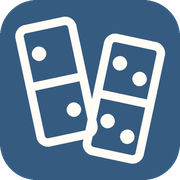
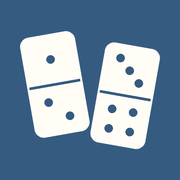
Publish Domino 1.6.2

diff --git a/index.html b/index.html
@@ -1,8 +1,8 @@
 <!doctype html>
 <html lang="pl" data-theme="classic">
-<head><meta charset="utf-8"><meta name="viewport" content="width=device-width, initial-scale=1"><meta name="theme-color" content="#365b80"><title>Domino</title><link rel="stylesheet" href="style.css?v=1.3.20"><link rel="stylesheet" href="shared-palettes.css?v=1.5.0"><link rel="stylesheet" href="themes.css?v=1.6.1"><link rel="icon" type="image/svg+xml" href="favicon.svg?v=1.3.20"><link rel="icon" sizes="any" href="favicon.ico?v=1.3.20"><link rel="apple-touch-icon" href="apple-touch-icon.png?v=1.3.20"><link rel="stylesheet" href="shared-game.css?v=1.6.1"><link rel="stylesheet" href="shared-victory.css?v=6">
+<head><meta charset="utf-8"><meta name="viewport" content="width=device-width, initial-scale=1"><meta name="theme-color" content="#365b80"><title>Domino</title><link rel="stylesheet" href="style.css?v=1.3.20"><link rel="stylesheet" href="shared-palettes.css?v=1.5.0"><link rel="stylesheet" href="themes.css?v=1.6.1"><link rel="icon" type="image/svg+xml" href="favicon.svg?v=1.3.20"><link rel="icon" sizes="any" href="favicon.ico?v=1.3.20"><link rel="apple-touch-icon" href="apple-touch-icon.png?v=1.6.2"><link rel="stylesheet" href="shared-game.css?v=1.6.1"><link rel="stylesheet" href="shared-victory.css?v=6">
 <link rel="stylesheet" href="games-chest-menu.css?v=recent-1"><script defer src="games-chest-menu.js?v=recent-1" data-game="domino"></script><script defer src="https://cloud.umami.is/script.js" data-website-id="a4d24ffd-fa55-44e7-8c3b-dc5a5e42a2f2" data-domains="domino.games-chest.com" data-tag="domino"></script>
-<link rel="manifest" href="manifest.webmanifest?v=1.6.0">
+<link rel="manifest" href="manifest.webmanifest?v=1.6.2">
 </head>
 <body>
 <header><a class="brand" href="./"><svg class="brand-logo" aria-hidden="true" focusable="false" xmlns="http://www.w3.org/2000/svg" viewBox="0 0 64 64" fill="none" stroke="currentColor" stroke-width="3" stroke-linecap="round"><g transform="rotate(-12 20 29)"><rect x="9" y="7" width="22" height="44" rx="4"/><path d="M10 29h20"/><g fill="currentColor" stroke="none"><circle cx="16" cy="18" r="2.5"/><circle cx="24" cy="40" r="2.5"/></g></g><g transform="rotate(12 44 35)"><rect x="33" y="13" width="22" height="44" rx="4"/><path d="M34 35h20"/><g fill="currentColor" stroke="none"><circle cx="40" cy="23" r="2.5"/><circle cx="48" cy="27" r="2.5"/><circle cx="40" cy="44" r="2.5"/><circle cx="48" cy="48" r="2.5"/></g></g></svg><span class="brand-name" translate="no">Domino</span></a><div class="header-controls"><div class="accessibility-controls"><button id="contrast" aria-pressed="false"></button><label class="text-size-control"><input type="checkbox" id="large"><span id="large-label"></span></label></div><div class="preferences"><label><span id="language-label"></span><select id="language"><option value="pl">Polski</option><option value="en">English</option></select></label><label><span id="theme-label"></span><select id="theme"></select></label></div></div></header>
@@ -16,7 +16,7 @@
 <div class="round-actions"><button id="continue" class="primary" hidden></button></div></div></section></div>
 <aside><section class="card" id="history-panel" hidden><h2 id="history-title"></h2><p id="history-note" class="small muted"></p><div id="history-rounds"></div></section><section class="card"><p class="eyebrow" id="progress-label"></p><h2 id="progress-title"></h2><p id="progress-text"></p><div class="stat"><span id="wins-label"></span><strong id="wins">0</strong></div><div class="stat"><span id="matches-label"></span><strong id="matches">0</strong></div><div class="stat"><span id="match-points-label"></span><strong id="match-points">0</strong></div><div id="badges"></div><p class="muted small" id="local-note"></p></section>
 <section class="card"><h2 id="rules-title"></h2><ul id="rules"></ul><p class="muted small" id="version"></p></section></aside></div>
-</main><footer><section class="support-causes" aria-labelledby="support-title"><h2 id="support-title">Dobra gra może zrobić coś dobrego.</h2><p>Domino jest bezpłatne. Jeśli chcesz, wesprzyj pomoc osobom dotkniętym wojną w Ukrainie lub psom i kotom w Gdyni.</p><div class="support-links"><a href="https://www.pah.org.pl/gdzie-dzialamy/ukraina/" target="_blank" rel="noopener noreferrer"><b aria-hidden="true" translate="no">🇺🇦</b> <span>Pomoc Ukrainie · PAH</span> <b aria-hidden="true" translate="no">↗</b></a><a href="https://ciapkowo.pl/" target="_blank" rel="noopener noreferrer"><b aria-hidden="true" translate="no">🐾</b> <span>Pomoc psom i kotom · Ciapkowo w Gdyni</span> <b aria-hidden="true" translate="no">↗</b></a></div><p class="support-note">Linki prowadzą do oficjalnych stron organizacji. Nie zbieramy wpłat ani nie pobieramy prowizji.</p></section><span>Small digits. Many possibilities.</span><a id="credits-link" href="credits.html">Autorzy i licencje</a><span id="footer-version" translate="no">v1.6.1</span><span id="save-note"></span>
+</main><footer><section class="support-causes" aria-labelledby="support-title"><h2 id="support-title">Dobra gra może zrobić coś dobrego.</h2><p>Domino jest bezpłatne. Jeśli chcesz, wesprzyj pomoc osobom dotkniętym wojną w Ukrainie lub psom i kotom w Gdyni.</p><div class="support-links"><a href="https://www.pah.org.pl/gdzie-dzialamy/ukraina/" target="_blank" rel="noopener noreferrer"><b aria-hidden="true" translate="no">🇺🇦</b> <span>Pomoc Ukrainie · PAH</span> <b aria-hidden="true" translate="no">↗</b></a><a href="https://ciapkowo.pl/" target="_blank" rel="noopener noreferrer"><b aria-hidden="true" translate="no">🐾</b> <span>Pomoc psom i kotom · Ciapkowo w Gdyni</span> <b aria-hidden="true" translate="no">↗</b></a></div><p class="support-note">Linki prowadzą do oficjalnych stron organizacji. Nie zbieramy wpłat ani nie pobieramy prowizji.</p></section><span>Small digits. Many possibilities.</span><a id="credits-link" href="credits.html">Autorzy i licencje</a><span id="footer-version" translate="no">v1.6.2</span><span id="save-note"></span>
 <nav class="games-chest-menu" translate="no"><div class="recent-games" hidden><span></span><div class="recent-games-icons"></div></div><a class="all-games" href="https://games-chest.com/">Wszystkie gry</a></nav>
 </footer>
 <dialog id="history-drawer" aria-labelledby="history-title"><form method="dialog"><button type="submit" autofocus>Close</button></form></dialog>

diff --git a/credits.html b/credits.html
@@ -1,3 +1,3 @@
 <!doctype html>
-<html lang="pl"><head><meta charset="utf-8"><meta name="viewport" content="width=device-width, initial-scale=1"><title>Autorzy i licencje · Domino</title><link rel="stylesheet" href="style.css?v=1.3.20"><link rel="stylesheet" href="shared-palettes.css?v=1.5.0"><link rel="stylesheet" href="themes.css?v=1.5.2"><style>body{max-width:760px;margin:auto}header{gap:16px;flex-wrap:wrap}header a{font-size:16px}main{padding:24px}section{margin:20px 0}h1{font-size:clamp(26px,5vw,36px)}h2{font-size:20px}p{overflow-wrap:anywhere}.credits-controls{display:flex;align-items:center;gap:8px}</style><link rel="icon" type="image/svg+xml" href="favicon.svg?v=1.3.20"><link rel="icon" sizes="any" href="favicon.ico?v=1.3.20"><link rel="apple-touch-icon" href="apple-touch-icon.png?v=1.3.20"></head>
+<html lang="pl"><head><meta charset="utf-8"><meta name="viewport" content="width=device-width, initial-scale=1"><title>Autorzy i licencje · Domino</title><link rel="stylesheet" href="style.css?v=1.3.20"><link rel="stylesheet" href="shared-palettes.css?v=1.5.0"><link rel="stylesheet" href="themes.css?v=1.5.2"><style>body{max-width:760px;margin:auto}header{gap:16px;flex-wrap:wrap}header a{font-size:16px}main{padding:24px}section{margin:20px 0}h1{font-size:clamp(26px,5vw,36px)}h2{font-size:20px}p{overflow-wrap:anywhere}.credits-controls{display:flex;align-items:center;gap:8px}</style><link rel="icon" type="image/svg+xml" href="favicon.svg?v=1.3.20"><link rel="icon" sizes="any" href="favicon.ico?v=1.3.20"><link rel="apple-touch-icon" href="apple-touch-icon.png?v=1.6.2"></head>
 <body><header><a href="./" data-text="back">← Wróć do domino</a><label class="credits-controls"><span aria-hidden="true">🌐</span><select id="credits-language" aria-label="Język / Language"><option value="pl">Polski</option><option value="en">English</option></select></label></header><main><h1 data-text="title">Autorzy i licencje</h1><section class="card"><h2 data-text="author">Autor projektu</h2><p><strong translate="no">Robert Walczyński</strong></p><p data-text="role">Pomysł, rozwój i kierunek projektu.</p><h2 data-text="support">Wsparcie przy tworzeniu</h2><p data-text="codex">Aplikacja rozwijana z pomocą OpenAI Codex.</p></section><section class="card"><h2 data-text="components">Biblioteki zewnętrzne</h2><p data-text="none">Brak — aplikacja nie korzysta z dodatkowych bibliotek.</p><p data-text="own">Silnik domino, przeciwnik komputerowy i interfejs są własną częścią projektu. Aplikacja używa fontów systemowych; nie dołącza zewnętrznych bibliotek ani plików fontów.</p></section><section class="card"><h2 data-text="license">Licencja aplikacji</h2><p data-text="licenseNote">Dla własnego kodu aplikacji nie wybrano jeszcze licencji. Publiczny dostęp do gry nie oznacza udzielenia licencji na kod.</p></section><p><a href="./" data-text="back">← Wróć do domino</a></p><p>The Garden illustration comes from Eight Aces.</p></main><script src="locales.js?v=1.5.0"></script><script src="i18n.js?v=1.3.20"></script><script src="credits.js?v=1.5.3"></script></body></html>

diff --git a/sw.js b/sw.js
@@ -1,5 +1,5 @@
 const cachePrefix = 'domino-offline-';
-const cacheName = cachePrefix + '1.6.1';
+const cacheName = cachePrefix + '1.6.2';
 const scope = self.registration.scope;
 const assetNames = [
   'app.js', 'apple-touch-icon.png', 'board-view.js', 'credits.html',
